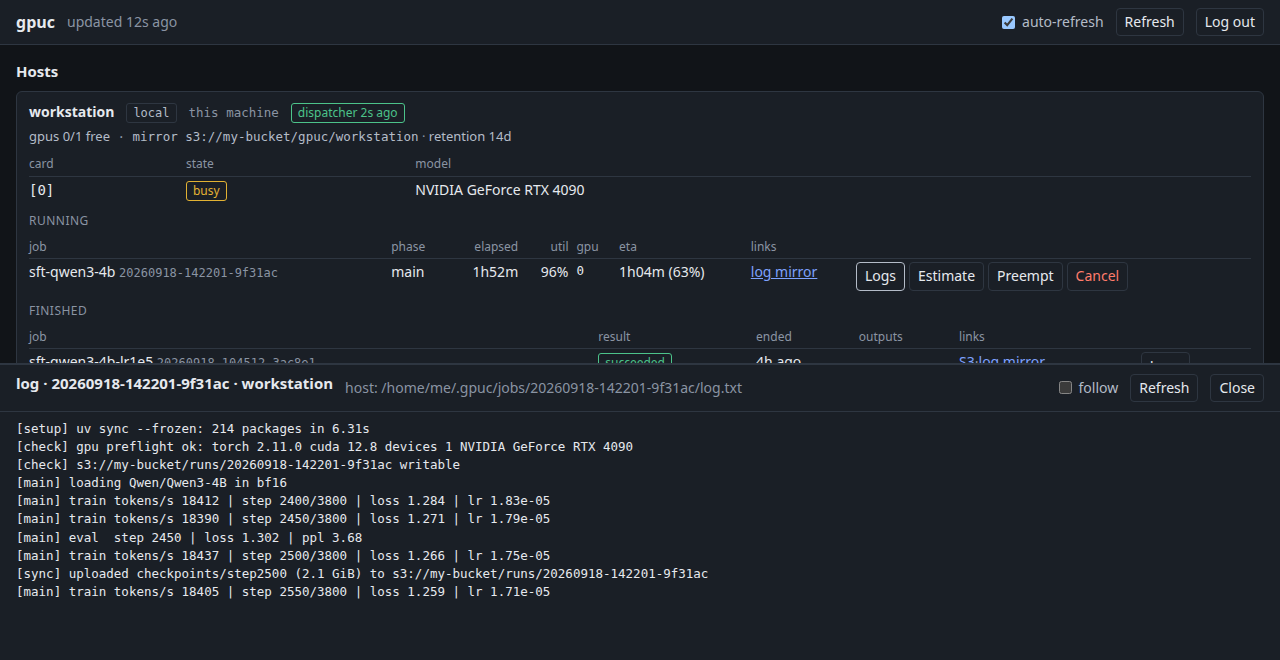
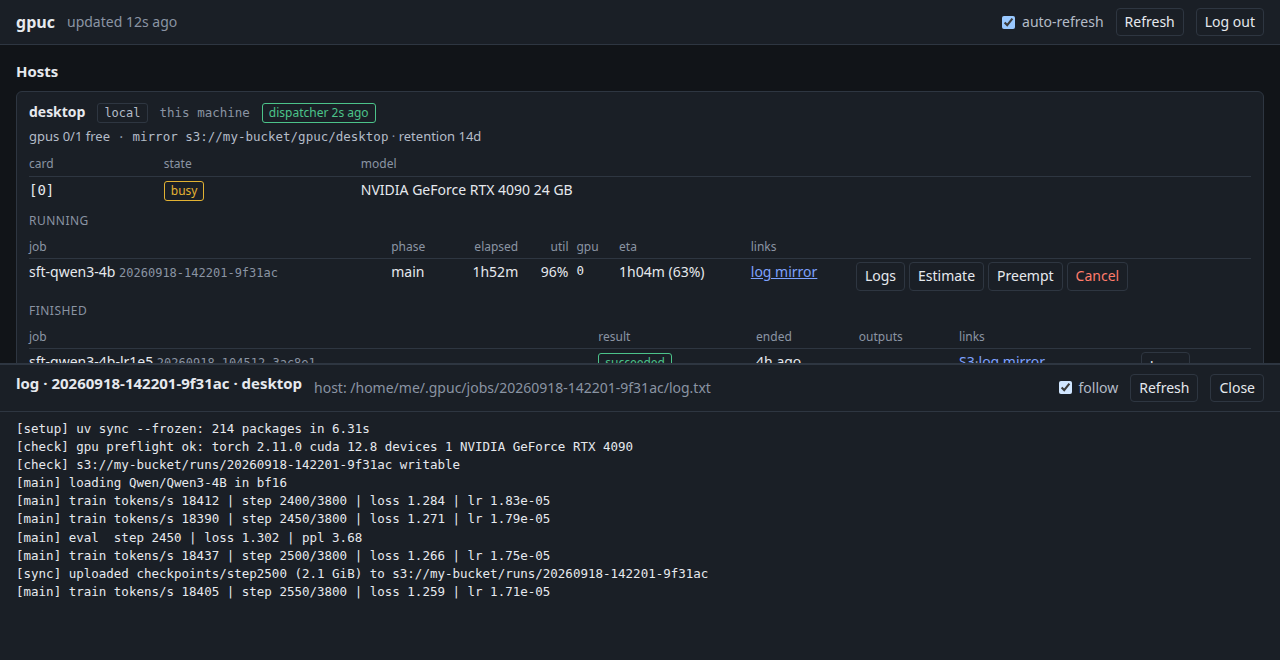
Apply the review: the screenshots were missing every card's VRAM
`GpuInfo(memory_mib=…)` is not a field, and pydantic drops what it does not
know, so the dashboard shots showed "NVIDIA A40" where a real host says
"NVIDIA A40 48 GB" -- while the GIF beside them showed the VRAM. Both
regenerated from the fixed fixture.

docs/media is in pyright's include and in check.sh now, which is what would
have caught it: ruff sees the file, and ruff cannot know a pydantic field.

Also: the rented host's address was in RunPod's real IP range rather than the
repo's `root@1.2.3.4`; the local host is `desktop`, so it no longer shares a
name with the GIF's host while showing another card; the alt text said every
job row has a Preempt button and put the 100% reading before the logs instead
of after; the log panel re-fetches its tail rather than following the file;
and the recipe credited `asciinema rec -i` with compressing the idle time that
`agg --idle-time-limit` compresses, while leaving out the demo project it
needs.

diff --git a/docs/media/demo_state.py b/docs/media/demo_state.py
@@ -63,21 +63,19 @@ def entry(
         cache=HostCache(
             read_at=at(minutes=-3),
             driver_version="580.65.06",
-            gpu_info={
-                g: GpuInfo(name=model, memory_mib=vram_mib) for g in [*gpus, *(shared or [])]
-            },
+            gpu_info={g: GpuInfo(name=model, vram_mib=vram_mib) for g in [*gpus, *(shared or [])]},
             config=config,
         ),
     )
 
 
 def views() -> list[HostView]:
-    workstation = HostView(
+    desktop = HostView(
         entry=entry(
-            "workstation",
+            "desktop",
             "local",
             gpus=[uuid(1)],
-            s3_prefix="s3://my-bucket/gpuc/workstation",
+            s3_prefix="s3://my-bucket/gpuc/desktop",
             model="NVIDIA GeForce RTX 4090",
             vram_mib=24564,
         ),
@@ -124,7 +122,7 @@ def views() -> list[HostView]:
             shared=[uuid(4)],
             s3_prefix="s3://my-bucket/gpuc/lab",
             model="NVIDIA A40",
-            vram_mib=46068,
+            vram_mib=49140,
         ),
         reachable=True,
         pkg_commit=version_mod.local_commit(),
@@ -203,7 +201,7 @@ def views() -> list[HostView]:
         entry=entry(
             "a100-burst",
             "runpod",
-            ssh="root@213.173.108.14",
+            ssh="root@1.2.3.4",
             pod_id="k7q2m9x4v1",
             gpus=[uuid(5), uuid(6)],
             s3_prefix="s3://my-bucket/gpuc/a100-burst",
@@ -245,7 +243,7 @@ def views() -> list[HostView]:
         ],
     )
 
-    return [workstation, lab, rented]
+    return [desktop, lab, rented]
 
 
 LOG = """\
@@ -286,8 +284,8 @@ ROUTES_JSON = {
         "notes": [],
     },
     "/api/version": lambda: {
-        "version": "0.1.0",
-        "commit": "8285811",
+        "version": version_mod.__version__,
+        "commit": version_mod.local_commit(),
         "source": "installed",
         "dirty": False,
         "hosts": [],
@@ -299,7 +297,7 @@ ROUTES_JSON = {
 class Handler(BaseHTTPRequestHandler):
     protocol_version = "HTTP/1.1"
 
-    def log_message(self, *args: Any) -> None:
+    def log_message(self, format: str, *args: Any) -> None:
         pass
 
     def do_GET(self) -> None:
@@ -316,7 +314,7 @@ class Handler(BaseHTTPRequestHandler):
             job_id = path.split("/")[3]
             body = {
                 "job_id": job_id,
-                "host": "workstation",
+                "host": "desktop",
                 "source": "host",
                 "location": f"/home/me/.gpuc/jobs/{job_id}/log.txt",
                 "lines": LOG.splitlines(),

diff --git a/docs/media/README.md b/docs/media/README.md
@@ -2,9 +2,57 @@
 
 ## `cli.gif`, `cli.cast`
 
-A real session against a real host: a throwaway `GPUC_CONFIG_DIR`, a host added
-with `--gpuc-home` somewhere scratch, and a job whose `command` keeps one card
-busy so `gpuc status` has a utilization to show. Recorded and rendered with:
+A real session against a real host. Everything below happens in `$DEMO`
+(`~/gpuc-demo` when `demo.sh` is not told otherwise) so nothing touches the
+registry you actually use, and the path stays short: `gpuc submit` prints where
+it synced to, and a long one wraps at 100 columns.
+
+```sh
+export DEMO=~/gpuc-demo
+mkdir -p "$DEMO"
+cat > "$DEMO/env.sh" <<'EOF'
+export GPUC_CONFIG_DIR=$HOME/gpuc-demo/config
+export XDG_DATA_HOME=$HOME/gpuc-demo/data
+EOF
+source "$DEMO/env.sh"
+gpuc config init                                       # else every command prints a note
+gpuc host add workstation --gpuc-home "$DEMO/gpuc-home"
+gpuc host bootstrap workstation
+```
+
+`$DEMO/project` is a git repo with a `pyproject.toml` depending on `torch`, a
+`train.py`, and the two specs `demo.sh` submits. The job has to keep a card
+*busy*: the first take's loop slept between steps, so `gpuc status` honestly
+reported `util 9%` and the recording looked like an idle GPU.
+
+```python
+# train.py: STEPS and TAG come from argv.
+w = torch.randn(2048, 2048, device="cuda")
+x = torch.randn(2048, 2048, device="cuda")
+for step in range(1, STEPS + 1):
+    for _ in range(250):  # ~0.6s of work, no sleep
+        x = torch.tanh(x @ w) * 0.5
+    torch.cuda.synchronize()
+    print(f"[{TAG}] step {step}/{STEPS} loss {loss:.4f}", flush=True)
+    Path("results/progress.txt").write_text(f"{step / STEPS:.3f}\n")
+```
+
+```yaml
+# job.yaml; eval.yaml is the same with `priority: 30` and a shorter run, so it
+# queues behind this one instead of starting beside it.
+name: sft-qwen3-4b
+command: uv run --no-sync python train.py 300 sft
+setup: uv sync --frozen
+gpus: 1
+priority: 50
+estimated_runtime_min: 2
+progress_command: "tail -1 results/progress.txt"
+progress_interval_s: 5
+```
+
+Seed one finished job first (submit the same spec with a small step count and
+let it end), so `gpuc status` has a `done` line to show. Then, from this
+directory:
 
 ```sh
 asciinema rec --cols 100 --rows 32 -i 1.5 -c ./demo.sh cli.cast
@@ -12,21 +60,34 @@ agg --theme github-dark --font-size 15 --fps-cap 12 --speed 1.15 \
     --idle-time-limit 1.2 --last-frame-duration 4 cli.cast cli.gif
 ```
 
-`demo.sh` types each command a character at a time and pauses after it; the
-commands themselves are ordinary `gpuc`. Sleeps between them are recorded as
-idle and compressed by `-i`, so waiting for the host to sample utilization
-costs the viewer a second.
+`demo.sh` types each command a character at a time and pauses after it. The
+`sleep 25` in it is what gives the host time to sample utilization before the
+last `gpuc status`; the viewer does not wait through it, because `agg
+--idle-time-limit` shortens the gap at render time. (`asciinema rec -i` only
+writes `idle_time_limit` into the cast header — the recorded timestamps keep
+the full 25 seconds.)
+
+`agg` is the asciinema project's own renderer; its prebuilt
+`agg-x86_64-unknown-linux-gnu` needs no toolchain.
 
 ## `web-dashboard.png`, `web-logs.png`
 
-A fleet nobody owns: three hosts, one of each kind, with job names and a bucket
-that are made up. `demo_state.py` builds `HostView`s and serves
+A fleet nobody owns: three hosts, one of each kind, with job names, an IP and a
+bucket that are made up. `demo_state.py` builds `HostView`s and serves
 `status.document()` for them beside the dashboard's own static files, so the
-page renders a fabricated world with the shipped code.
+page renders a fabricated world with the shipped code. From the repo root:
 
 ```sh
 uv run python docs/media/demo_state.py 8747     # then screenshot 127.0.0.1:8747
 ```
 
-Both were taken at 1280 wide with the browser in dark mode, and `optipng -o3`
+Both were taken at 1280 wide with the browser in dark mode (Playwright's
+`page.emulateMedia({colorScheme: 'dark'})`, before `goto`), and `optipng -o3`
 run over the result.
+
+Curating a state means curating every field the page reads. Leaving one null
+does not leave a blank: it printed a re-bootstrap warning on every host, an
+`idle undefinedm`, and a `borrowing unknown`. `docs/media` is in pyright's
+`include` for the same reason — a `GpuInfo(memory_mib=…)` that pydantic
+silently dropped took the VRAM off every card in the first version of these
+screenshots.

diff --git a/README.md b/README.md
@@ -6,12 +6,13 @@ One submit path (`gpuc submit`) for three kinds of GPU host:
 - **ssh** — a shared box you have no sudo on, using a subset of its GPUs,
 - **runpod** — an ephemeral pod, provisioned for the job and torn down after it.
 
-![A terminal session: gpuc submit sends job.yaml to the host workstation and it
-starts at once; a second submit queues eval-checkpoints behind it; gpuc status
-prints the card, the running job at 100% utilization with its estimated finish,
-the queued job with its priority and projected start, and the last job that
-finished; gpuc logs -f then streams the training output as it is
-written.](docs/media/cli.gif)
+![A terminal session: cat job.yaml shows a five-line spec; gpuc submit sends it
+to the host workstation, which starts it at once; a second submit queues
+eval-checkpoints behind it; gpuc status prints the card, the running job with
+its estimated finish, the queued job with its priority and projected start, and
+the job that finished before them; gpuc logs -f streams the training output as
+it is written; and a last gpuc status has the running job at 100% utilization
+and 29% done.](docs/media/cli.gif)
 
 The same recording as text, to copy from:
 [asciinema.org/a/fu8jgOVnwDi6dlYd](https://asciinema.org/a/fu8jgOVnwDi6dlYd).
@@ -52,19 +53,20 @@ is doing, the queue in dispatch order, and the actions the CLI has — logs,
 estimate, reorder, preempt, cancel. It asks the hosts, so it shows what they
 say and nothing a command could not tell you.
 
-![The gpuc dashboard listing three hosts. workstation (local) has one RTX 4090
+![The gpuc dashboard listing three hosts. desktop (local) has one RTX 4090
 running a fine-tune at 96% utilization. lab (ssh) has two A40s running a grid
 search, a third card marked shared and in use by somebody else, two jobs queued
 with their priorities and projected starts, and one that failed. a100-burst
 (runpod) is a rented pod billing $1.64 an hour for a job across both of its
-A100s. Every job row carries Logs, Estimate, Preempt and Cancel
-buttons.](docs/media/web-dashboard.png)
+A100s. A running job's row carries Logs, Estimate, Preempt and Cancel; a queued
+one carries its priority, Reorder, and no Preempt.](docs/media/web-dashboard.png)
 
-A job's log opens in a panel over the list and follows the file on the host:
+A job's log opens in a panel over the list, and with `follow` ticked the page
+re-fetches its tail as the host writes it:
 
-![The log panel open over the host list, tailing a running job: uv sync in the
-setup phase, the GPU and S3 checks that run before the job's main phase, then
-training steps and a checkpoint upload to S3.](docs/media/web-logs.png)
+![The log panel open over the host list, showing a running job's log: uv sync
+in the setup phase, the GPU and S3 checks that run before the job's main phase,
+then training steps and a checkpoint upload to S3.](docs/media/web-logs.png)
 
 ## Documentation
 

diff --git a/CLAUDE.md b/CLAUDE.md
@@ -11,6 +11,7 @@
 | [docs/setup.md](docs/setup.md), [docs/usage.md](docs/usage.md) | user-facing behaviour: install, hosts, the job spec, every command, failure reasons, `--json` schemas |
 | [skills/gpuc/SKILL.md](skills/gpuc/SKILL.md) | the agent guide, shipped in the wheel; `gpuc skill` prints it |
 | [README.md](README.md) | the short public overview |
+| [docs/media/README.md](docs/media/README.md) | the README's recording and screenshots, and how to make them again when the CLI's output or the dashboard changes |
 | `gpuc/host/` | runs on hosts, stdlib only; `gpuc/control/` runs on the client and may use dependencies |
 | `./check.sh` | lint, typecheck, tests; what CI runs. A bare `pytest` never rents hardware |
 
